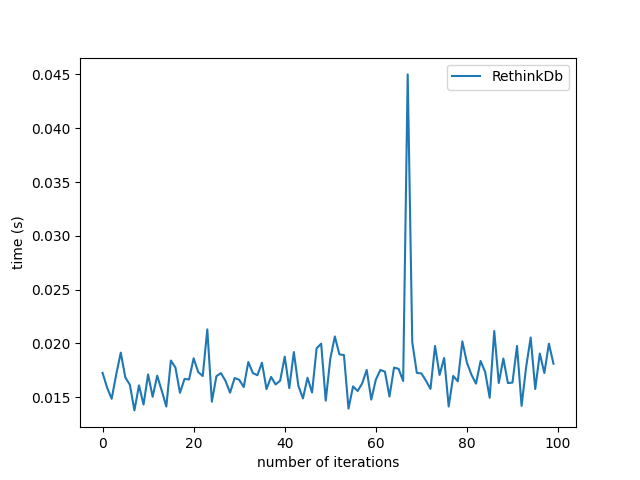
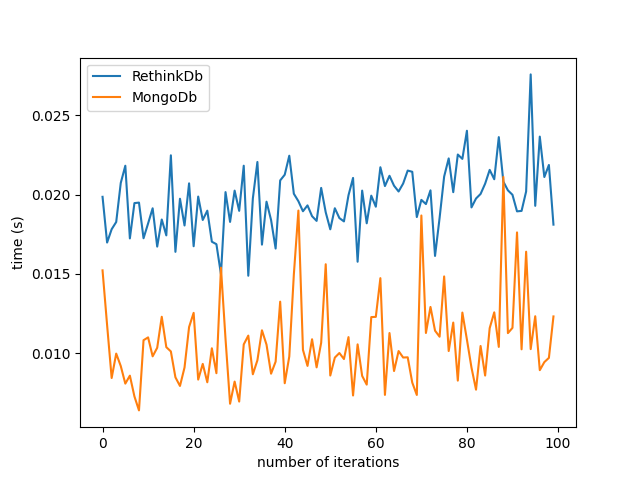
add search by value tests for mongo

diff --git a/efficiency-tests/mongodb_test.py b/efficiency-tests/mongodb_test.py
@@ -115,5 +115,27 @@ class MongoTest:
 
         print('test finished')
 
+    def test_search_row_by_value_10_times_efficiency(self, inserts_num: int):
+        idx = 0
+        mod = inserts_num / min(100, inserts_num)
+
+        self.db.source.drop()
+
+        random.seed(87747)
+        print('test started')
+
+        while idx < inserts_num:
+            self.db.source.insert_one({'value': idx})
+            if idx % mod == 0:
+                start = time.time()
+                for _ in range(10):
+                    print(self.db.source.find({'value': random.randint(0, idx)}).next(), end=', ')
+                end = time.time()
+                print()
+                self.db.search_row_by_value_10_times.insert_one({'id': idx, 'time': end - start})
+            idx += 1
+
+        print('test finished')
+
     def get_results(self, schema: str) -> list:
         return list(self.db[schema].find())

diff --git a/efficiency-tests/main.py b/efficiency-tests/main.py
@@ -35,13 +35,17 @@ def get_average_time(data_series: list):
 if __name__ == '__main__':
 
     iterations_num = 100
-    tests = [('search_row_by_id_10_times', True)]
+    tests = [('search_row_by_value_10_times', True)]
     # [('inserts', True), ('read_write', True), ('sorting', True), ('join_table', True),
     # ('search_row_by_id_10_times', True), ('search_row_by_value_10_times', True), ('copy_table', True)]
 
     # search_row_by_id_10_times for iterations_num = 100
     # MongoDb average operation time: 9.33074951171875e-05
     # RethinkDb average operation time: 7.951736450195312e-05
+
+    # search_row_by_value_10_times for iterations_num = 100
+    # MongoDb average operation time: 0.00012311697006225586
+    # RethinkDb average operation time: 0.00018972158432006836
 
     for test_name, recreate_collection in tests:
         test_func_name = f'test_{test_name}_efficiency'

diff --git a/efficiency-tests/rethinkdb_test.py b/efficiency-tests/rethinkdb_test.py
@@ -145,8 +145,9 @@ class RethinkTest:
             if idx % mod == 0:
                 start = time.time()
                 for _ in range(10):
-                    r.table('source').filter({'value': random.randint(0, idx)}).run()
+                    print(r.table('source').filter({'value': random.randint(0, idx)}).run(), end=', ')
                 end = time.time()
+                print()
                 r.table('search_row_by_value_10_times').insert({'id': idx, 'time': end - start}).run()
             idx += 1
 
